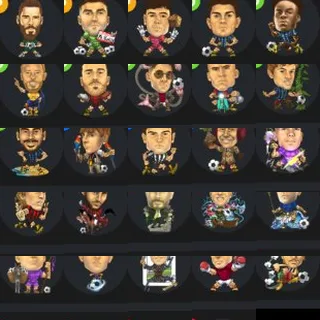
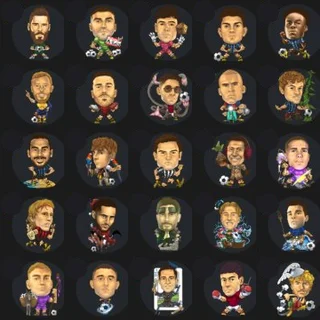
Nuova versione Mobile Improve

diff --git a/index.html b/index.html
@@ -59,6 +59,12 @@ a { color: var(--accent); }
 .tabs a { flex: 0 0 auto; padding: 9px 13px 10px; text-decoration: none; color: var(--muted); font: 600 15px/1 var(--f-display); letter-spacing: .08em; text-transform: uppercase; border-bottom: 2px solid transparent; }
 .tabs a:hover { color: var(--fg); }
 .tabs a[aria-current="page"] { color: var(--fg); border-bottom-color: var(--accent); }
+/* telefono: le 5 voci stanno tutte nella riga, senza scorrimento */
+@media (max-width: 560px) {
+  .tabs { flex: 1 1 100%; overflow: visible; }
+  .tabs a { flex: 1 1 0; min-width: 0; text-align: center; padding: 10px 2px 10px; font-size: clamp(11.5px, 3.4vw, 14px); letter-spacing: .03em; }
+  .brand { padding-bottom: 4px; }
+}
 
 main { padding-block: 22px 40px; display: grid; gap: 28px; }
 .sec-h { display: flex; flex-wrap: wrap; align-items: baseline; justify-content: space-between; gap: 6px 16px; margin-bottom: 12px; }
@@ -121,6 +127,12 @@ thead th { background: var(--surface2); font: 600 13px/1 var(--f-display); lette
 tbody tr + tr td { border-top: 1px solid var(--line); }
 th:first-child, td:first-child { position: sticky; left: 0; text-align: left; background: var(--surface); min-width: 188px; padding-left: 12px; box-shadow: 1px 0 0 var(--line); }
 thead th:first-child { background: var(--surface2); }
+.ctrl { display: flex; flex-wrap: wrap; gap: 8px; }
+table.compatta th:first-child, table.compatta td:first-child { position: static; min-width: 0; width: 100%; white-space: normal; box-shadow: none; padding-left: 10px; }
+table.compatta th, table.compatta td { padding: 10px 6px; }
+table.compatta td:not(:first-child) { white-space: nowrap; }
+table.compatta .cell { gap: 8px; }
+table.compatta .cell .n { line-height: 1.2; overflow-wrap: anywhere; }
 td.pt { font: 700 18px/1 var(--f-display); color: var(--accent); }
 td.ptt { color: var(--muted); }
 .cell { display: flex; align-items: center; gap: 10px; }
@@ -156,7 +168,7 @@ a.sq:hover { border-color: var(--accent); }
 .stats b { display: block; color: var(--fg); font: 700 28px/1.05 var(--f-display); font-variant-numeric: tabular-nums; }
 .reparto { background: var(--surface); border: 1px solid var(--line); border-radius: 12px; overflow: hidden; }
 .reparto + .reparto { margin-top: 14px; }
-.rh, .pl { display: grid; grid-template-columns: 44px minmax(0, 1fr) auto; gap: 10px; align-items: center; padding: 8px 14px; }
+.rh, .pl { display: grid; grid-template-columns: 48px minmax(0, 1fr) auto; gap: 10px; align-items: center; padding: 8px 14px; }
 .rh { background: var(--surface2); border-bottom: 1px solid var(--line); padding-block: 10px; }
 .rh h3 { grid-column: 1 / 3; display: flex; align-items: center; gap: 10px; font-size: 18px; font-weight: 700; letter-spacing: .06em; text-transform: uppercase; }
 .badge { display: inline-grid; place-items: center; width: 24px; height: 24px; border-radius: 50%; color: #fff; font: 700 14px/1 var(--f-display); }
@@ -164,7 +176,7 @@ a.sq:hover { border-color: var(--accent); }
 .nums { display: grid; grid-template-columns: repeat(3, 40px); gap: 4px; text-align: right; font-variant-numeric: tabular-nums; font-size: 14px; }
 .rh .nums { font: 600 11px/1.2 var(--f-display); letter-spacing: .08em; text-transform: uppercase; color: var(--muted); }
 .pl + .pl { border-top: 1px solid var(--line); }
-.ph { width: 44px; height: 44px; border-radius: 50%; border: 1px solid var(--line); background-color: var(--surface2); background-repeat: no-repeat; }
+.ph { width: 48px; height: 48px; border-radius: 10px; border: 1px solid var(--line); background-color: #1b1b1b; background-repeat: no-repeat; }
 .pl .nm { min-width: 0; line-height: 1.25; }
 .pl .nm a { color: var(--fg); font-weight: 500; text-decoration: underline; text-decoration-color: var(--line); text-underline-offset: 3px; overflow-wrap: anywhere; }
 .pl .nm a:hover { color: var(--accent); text-decoration-color: var(--accent); }
@@ -243,9 +255,9 @@ const esc = s => String(s).replace(/[&<>"']/g, c => ({ '&': '&amp;', '<': '&lt;'
 const num = n => n.toLocaleString('it-IT', { minimumFractionDigits: 0, maximumFractionDigits: 2 });
 const logo = id => `img/${id}.webp`;
 const SECTIONS = [['home', 'Home'], ['squadre', 'Squadre'], ['calendario', 'Calendario'], ['classifica', 'Classifica'], ['commenti', 'Commenti']];
-const S = { cal: 'campionato', cla: 'campionato' };
+const S = { cal: 'campionato', cla: 'campionato', vista: (typeof matchMedia === 'function' && matchMedia('(max-width: 560px)').matches) ? 'compatta' : 'dettaglio' };
 const RUOLI = { P: 'Portieri', D: 'Difensori', C: 'Centrocampisti', A: 'Attaccanti' };
-const CELLA = 44; // le figurine di ogni squadra sono in un'unica immagine 5x5, nell'ordine della rosa
+const CELLA = 48; // le figurine di ogni squadra sono in un'unica immagine 5x5, nell'ordine della rosa
 const faccia = (id, i) => `background-image:url(img/rosa-${id}.webp);background-size:${5 * CELLA}px ${5 * CELLA}px;background-position:-${(i % 5) * CELLA}px -${Math.floor(i / 5) * CELLA}px`;
 const tmUrl = (nome, club) => 'https://www.google.com/search?q=' + encodeURIComponent(nome.replace(/\./g, '') + ' ' + club + ' calciatore transfermarkt');
 
@@ -289,6 +301,13 @@ function giornataHtml(g) {
 }
 
 function tabellaHtml(righe) {
+  if (S.vista === 'compatta') {
+    return `<div class="tablewrap"><table class="compatta">
+      <thead><tr><th>Squadra</th><th>G</th><th>V-N-P</th><th>Pt</th></tr></thead>
+      <tbody>${righe.map((r, i) => `<tr>
+        <td><div class="cell"><span class="rk">${i + 1}</span><img src="${logo(r.id)}" alt="" width="28" height="28"><span class="n">${esc(T[r.id].nome)}</span></div></td>
+        <td>${r.g}</td><td>${r.v}-${r.n}-${r.p}</td><td class="pt">${r.pt}</td></tr>`).join('')}</tbody></table></div>`;
+  }
   return `<div class="tablewrap"><table>
     <thead><tr><th>Squadra</th><th>G</th><th>V</th><th>N</th><th>P</th><th>Gf</th><th>Gs</th><th>Pt</th><th>Pt totali</th></tr></thead>
     <tbody>${righe.map((r, i) => `<tr>
@@ -305,9 +324,10 @@ function classificaCampionato() {
   return classifica(D.competizioni.campionato.squadre, partiteDi('campionato'), D.criteri);
 }
 
-function seg(act, cur) {
-  return `<div class="seg" role="group" aria-label="Competizione">${['campionato', 'coppa'].map(k =>
-    `<button type="button" data-act="${act}" data-v="${k}" aria-pressed="${cur === k}">${esc(D.competizioni[k].nome)}</button>`).join('')}</div>`;
+function seg(act, cur, opzioni, etichetta) {
+  const o = opzioni || ['campionato', 'coppa'].map(k => [k, D.competizioni[k].nome]);
+  return `<div class="seg" role="group" aria-label="${etichetta || 'Competizione'}">${o.map(([k, l]) =>
+    `<button type="button" data-act="${act}" data-v="${k}" aria-pressed="${cur === k}">${esc(l)}</button>`).join('')}</div>`;
 }
 
 const VIEWS = {
@@ -375,11 +395,14 @@ const VIEWS = {
       ${gs.length ? gs.map(giornataHtml).join('') : `<div class="vuoto"><strong>Calendario non ancora inserito</strong>Le giornate del ${esc(D.competizioni[S.cal].nome)} compaiono qui appena disponibili.</div>`}</section>`;
   },
   classifica() {
-    const leg = '<p class="legenda">G giocate · V vinte · N pareggiate · P perse · Gf gol fatti · Gs gol subiti · Pt punti · Pt totali somma dei fantapunti</p>';
+    const leg = S.vista === 'compatta'
+      ? '<p class="legenda">G giocate · V-N-P vinte, pareggiate, perse · Pt punti. Con «Dettaglio» vedi anche gol e fantapunti.</p>'
+      : '<p class="legenda">G giocate · V vinte · N pareggiate · P perse · Gf gol fatti · Gs gol subiti · Pt punti · Pt totali somma dei fantapunti</p>';
     const corpo = S.cla === 'coppa'
       ? classificheCoppa().map(({ k, righe }) => `<h3 class="tbl-h">Gruppo ${esc(k)}</h3>${tabellaHtml(righe)}`).join('')
       : tabellaHtml(classificaCampionato());
-    return `<section><div class="sec-h"><h2>Classifica</h2>${seg('cla', S.cla)}</div>${corpo}${leg}</section>`;
+    const vista = seg('vista', S.vista, [['compatta', 'Compatta'], ['dettaglio', 'Dettaglio']], 'Vista');
+    return `<section><div class="sec-h"><h2>Classifica</h2><div class="ctrl">${seg('cla', S.cla)}${vista}</div></div>${corpo}${leg}</section>`;
   },
   commenti() {
     return `<section><div class="sec-h"><h2>Commenti di giornata</h2><p>Articoli e video</p></div>
